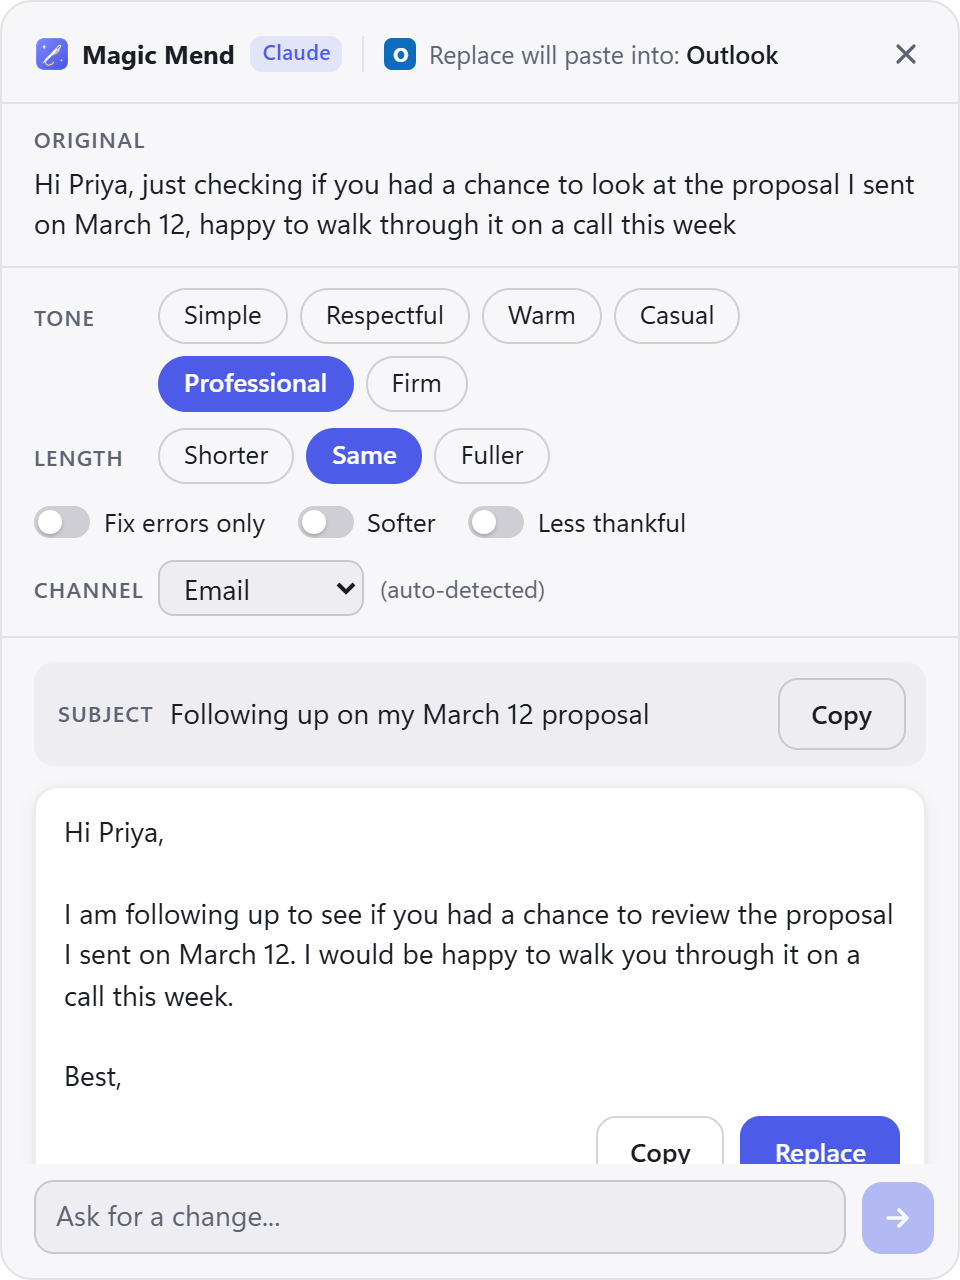
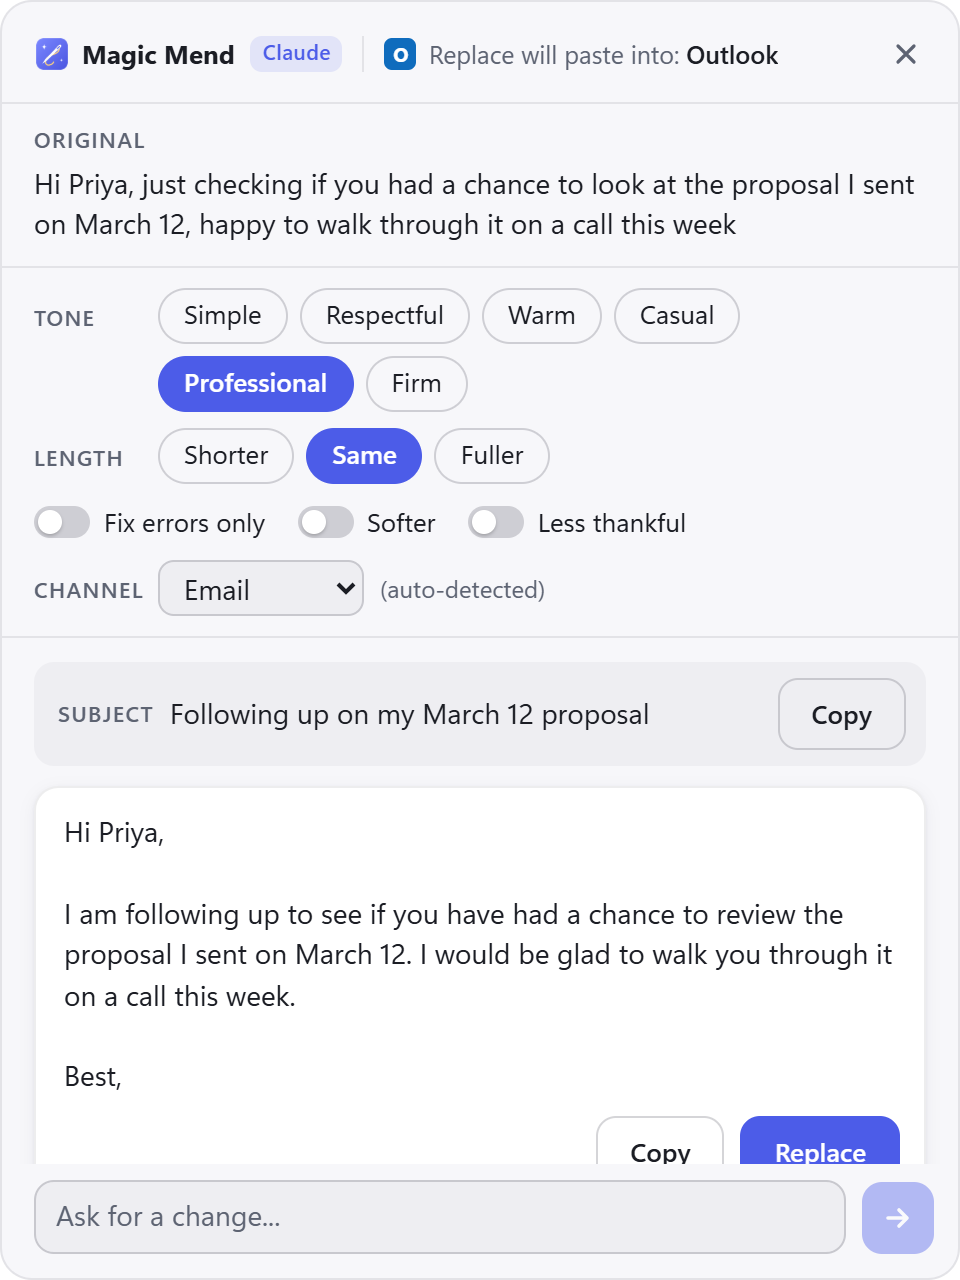
Regenerate screenshots and demo drafts; signed macOS release workflow
- Screenshots and demo drafts regenerated with real Claude drafts from the
  current prompt (27 of 28 drafts free of repeated words)
- release-mac.yml: universal build signed with the Developer ID certificate,
  notarized and stapled, verified with codesign, spctl, and stapler, and
  attached to the release (same approach as the Synode release workflow)

Changed region(s): [[0.0625, 0.6875, 0.9375, 0.7812]]

diff --git a/src/bridge.ts b/src/bridge.ts
@@ -31,12 +31,12 @@ const SAMPLE = "hey sam, the plumber cant come till thursday so can we push the 
 
 const FAKE: Record<string, string[]> = {
   Simple: [
-    "Hey Sam, the plumber cannot come until Thursday. Can we push the move-in date to Saturday instead? Sorry for the trouble.",
-    "Hey Sam, the plumber can not make it until Thursday, so can we move the move-in date to Saturday? I am sorry for the trouble.",
+    "Hey Sam, the plumber cannot come until Thursday, so can we change the move-in date to Saturday instead? Sorry for the trouble.",
+    "Hey Sam, the plumber is not able to come until Thursday. Can we shift the move-in date to Saturday? Sorry for the trouble.",
   ],
   Respectful: [
-    "Hey Sam, the plumber cannot come until Thursday. Could we please push the move-in date to Saturday instead? Sorry for the trouble.",
-    "Hey Sam, the plumber is not available until Thursday, so could we move the move-in date to Saturday instead? I am sorry for the trouble.",
+    "Hey Sam, the plumber cannot come until Thursday. Could we please change the move-in date to Saturday instead? Sorry for the trouble.",
+    "Hey Sam, the plumber is not able to come until Thursday, so could we please shift the move-in date to Saturday instead? I am sorry for the trouble.",
   ],
 };
 
